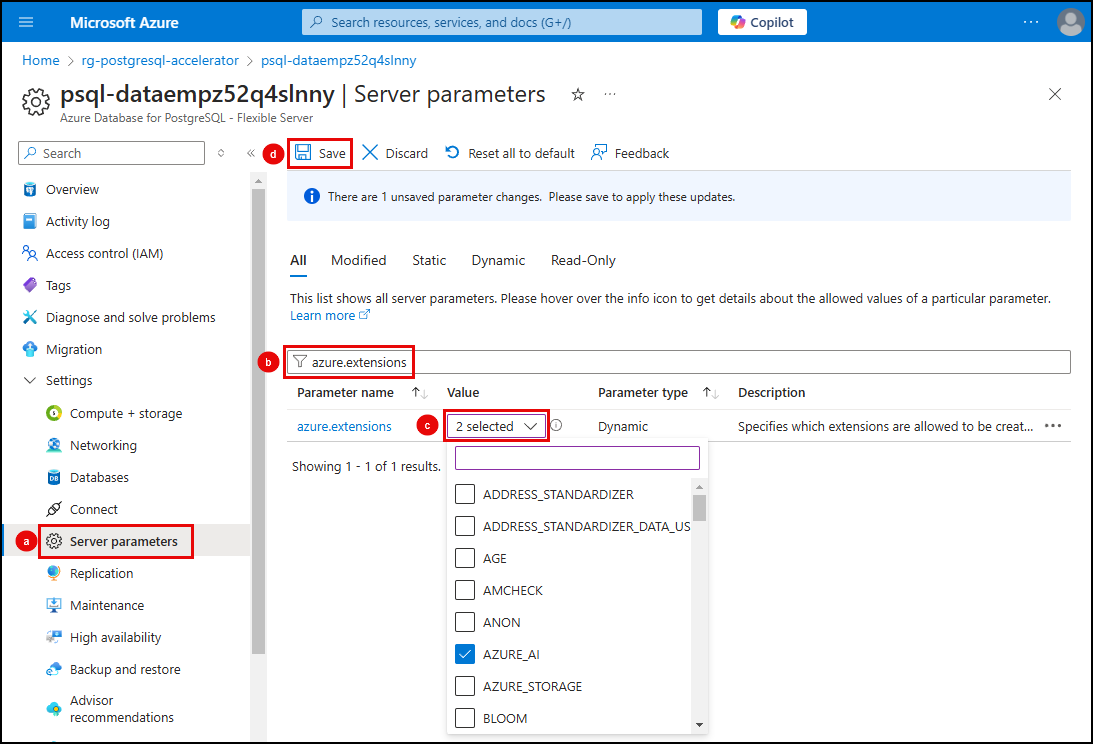
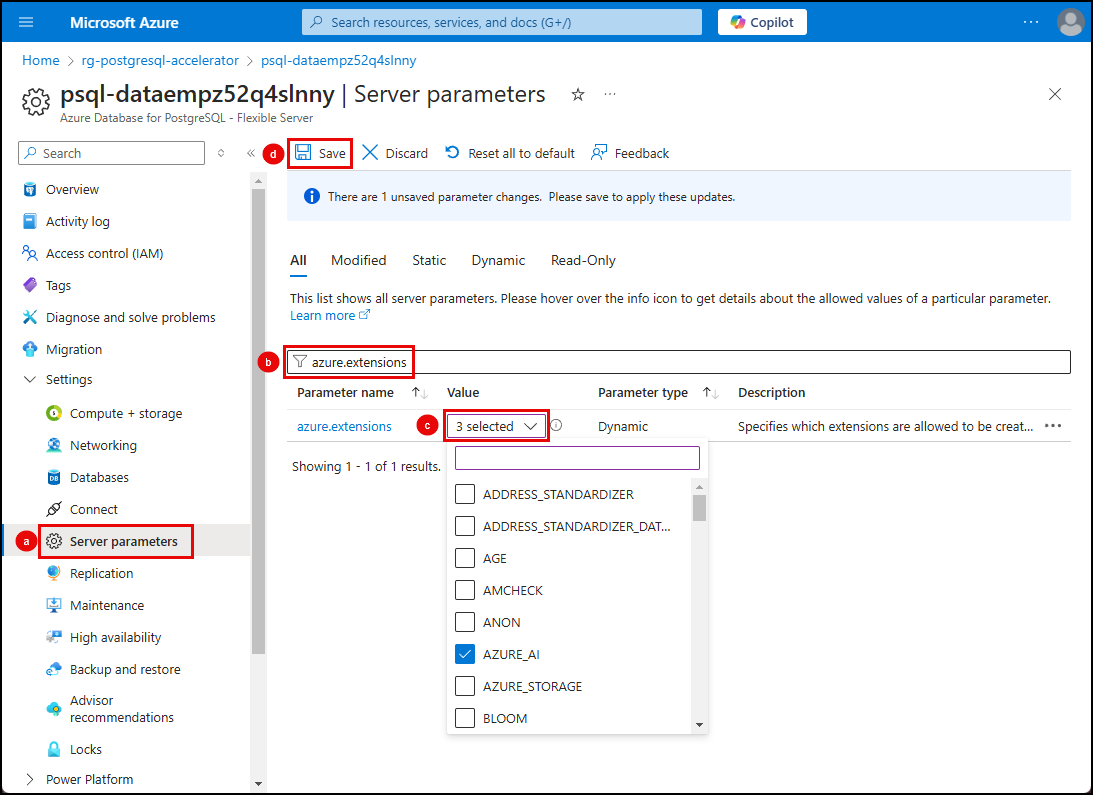
Switching to DiskANN indexing

Changed region(s): [[0.0, 0.0, 1.0, 1.0], [0.2177, 0.3091, 0.9643, 0.9274], [0.2177, 0.8038, 0.2489, 0.8965]]

diff --git a/docs/workshop/docs/03-Integrate-AI-Into-PostgreSQL/04.md b/docs/workshop/docs/03-Integrate-AI-Into-PostgreSQL/04.md
@@ -1,6 +1,6 @@
 # 3.4 Optimize Vector Query Performance
 
-The `vector` extension adds vector storage and similarity search capabilities to Azure Database for PostgreSQL flexible server. Indexing can help improve the performance of vector queries against the database. Without indexes, the `vector` extension performs an exact search, which provides perfect recall at the expense of performance. To perform approximate nearest neighbor searches, you can create indexes on your data, which sacrifices recall for execution performance.
+The `vector` extension adds vector storage and similarity search capabilities to Azure Database for PostgreSQL flexible server. To improve efficiency when executing vector searches, you can use the `pg_diskann` extension, which allows you to leverage DiskANN to create indexes on tables containing a _vector_ column. Indexing can help improve the performance of vector queries against the database. Without indexes, the `vector` extension performs an exact search, which provides perfect recall at the expense of performance. To perform approximate nearest neighbor searches, you can [create DiskANN indexes](https://learn.microsoft.com/azure/postgresql/flexible-server/how-to-use-pgdiskann) on your data, which offers high recall, high queries per second, and low query latency, even for billion-point datasets.
 
 !!! tip "Always load your data before indexing it."
 
@@ -10,9 +10,9 @@ The `vector` extension adds vector storage and similarity search capabilities to
 
 There are three supported vector index types, each with its own pros and cons. You can learn more about the index types using these links:
 
+- [Disk Approximate Nearest Neighbor](https://learn.microsoft.com/azure/postgresql/flexible-server/how-to-optimize-performance-pgvector#disk-approximate-nearest-neighbor-diskann) (DiskANN)
 - [Inverted File with Flat Compression](https://learn.microsoft.com/azure/postgresql/flexible-server/how-to-optimize-performance-pgvector#inverted-file-with-flat-compression-ivvflat) (IVVFlat)
 - [Hierarchical Navigable Small Worlds](https://learn.microsoft.com/azure/postgresql/flexible-server/how-to-optimize-performance-pgvector#hierarchical-navigable-small-worlds-hnsw) (HNSW)
-- [Disk Approximate Nearest Neighbor](https://learn.microsoft.com/azure/postgresql/flexible-server/how-to-optimize-performance-pgvector#disk-approximate-nearest-neighbor-diskann) (DiskANN)
 
 The `IVFFlat` index has faster build times and uses less memory than `HNSW`, but it has lower query performance (in terms of the speed-recall tradeoff). `DiskANN` offers a great balance between highly accurate query performance and fast build times.
 
@@ -42,16 +42,17 @@ WHERE embedding <=> '[-0.031766646,-0.033289704,...,0.016508864,0.031440277]' < 
 
 ## Create Vector Indexes
 
-In the previous tasks, you added `vector` columns to several tables in your database and populated them with embeddings using the `azure_ai` extension and Azure OpenAI. To ensure queries over those embeddings are efficient, you will add `hnsw` indexes to each table to which you added a `vector` column.
+In the previous tasks, you added `vector` columns to several tables in your database and populated them with embeddings using the `azure_ai` extension and Azure OpenAI. To ensure queries over those embeddings are efficient, you will add `diskann` indexes to each table to which you added a `vector` column.
 
-_Select the tab for each table below and execute the `CREATE INDEX` statement to create an `hnsw` index._
+_Select the tab for each table below and execute the `CREATE INDEX` statement to create an `diskann` index._
 
 === "deliverables"
 
     Copy and paste the following SQL statement into a new query window in pgAdmin, then execute the query to add the index.
 
     ```sql
-    CREATE INDEX deliverables_hnsw_idx ON deliverables USING hnsw (embedding vector_cosine_ops);
+    -- Create a diskann index by using Cosine distance operator
+    CREATE INDEX deliverables_diskann_idx ON deliverables USING diskann (embedding vector_cosine_ops);
     ```
 
 === "invoice_line_items"
@@ -59,7 +60,8 @@ _Select the tab for each table below and execute the `CREATE INDEX` statement to
     Copy and paste the following SQL statement into a new query window in pgAdmin, then execute the query to add the index.
 
     ```sql
-    CREATE INDEX line_items_hnsw_idx ON invoice_line_items USING hnsw (embedding vector_cosine_ops);
+    -- Create a diskann index by using Cosine distance operator
+    CREATE INDEX line_items_diskann_idx ON invoice_line_items USING diskann (embedding vector_cosine_ops);
     ```
 
 === "invoice_validation_results"
@@ -67,7 +69,8 @@ _Select the tab for each table below and execute the `CREATE INDEX` statement to
     Copy and paste the following SQL statement into a new query window in pgAdmin, then execute the query to add the index.
 
     ```sql
-    CREATE INDEX invoice_validation_results_hnsw_idx ON invoice_validation_results USING hnsw (embedding vector_cosine_ops);
+    -- Create a diskann index by using Cosine distance operator
+    CREATE INDEX invoice_validation_results_diskann_idx ON invoice_validation_results USING diskann (embedding vector_cosine_ops);
     ```
 
 === "sow_chunks"
@@ -75,7 +78,8 @@ _Select the tab for each table below and execute the `CREATE INDEX` statement to
     Copy and paste the following SQL statement into a new query window in pgAdmin, then execute the query to add the index.
     
     ```sql
-    CREATE INDEX sow_chunks_hnsw_idx ON sow_chunks USING hnsw (embedding vector_cosine_ops);
+    -- Create a diskann index by using Cosine distance operator
+    CREATE INDEX sow_chunks_diskann_idx ON sow_chunks USING diskann (embedding vector_cosine_ops);
     ```
 
 === "sow_validation_results"
@@ -83,7 +87,8 @@ _Select the tab for each table below and execute the `CREATE INDEX` statement to
     Copy and paste the following SQL statement into a new query window in pgAdmin, then execute the query to add the index.
 
     ```sql
-    CREATE INDEX sow_validation_results_hnsw_idx ON sow_validation_results USING hnsw (embedding vector_cosine_ops);
+    -- Create a diskann index by using Cosine distance operator
+    CREATE INDEX sow_validation_results_diskann_idx ON sow_validation_results USING diskann (embedding vector_cosine_ops);
     ```
 
-Be sure to run all the `CREATE INDEX` statements for each of the tables.
+!!! danger "Be sure to run the `CREATE INDEX` statements for each of the tables before moving on to the next step."

diff --git a/docs/workshop/docs/03-Integrate-AI-Into-PostgreSQL/index.md b/docs/workshop/docs/03-Integrate-AI-Into-PostgreSQL/index.md
@@ -2,11 +2,13 @@
 
 Generative AI (GenAI) represents a cutting-edge class of AI algorithms designed to create new, original content based on patterns and data learned from existing information. Natural language processing (NLP) is a key part of this. NLP allows generative AI to understand and produce human language, making it capable of tasks like summarizing large blocks of text, translating languages, or conversing with people. Using NLP, generative AI can create content that sounds natural and makes sense in context. By employing techniques like prompting and retrieval augmented generation (RAG), GenAI can produce innovative outputs, such as text, images, and more.
 
-Incorporating Generative AI (GenAI) within Azure Database for PostgreSQL - Flexible Server is accomplished through the Azure AI (`azure_ai`) and pgvector (`vector`) extensions. The `azure_ai` extension enables the integration of large language models (LLMs) directly within your database. The `azure_ai` extension provides seamless interaction with Azure's advanced AI services, such as Azure OpenAI and Azure Cognitive Services. With these integrations, you can elevate your applications by embedding robust AI functionalities directly into your database infrastructure. The `vector` extension works with the `azure_ai` extension, allowing vector embeddings to be generated in database queries, then stored and queried in the database. It also enables powerful vector similarity search capabilities.
+Incorporating Generative AI (GenAI) within Azure Database for PostgreSQL - Flexible Server is accomplished through the Azure AI (`azure_ai`) and pgvector (`vector`) extensions. The `azure_ai` extension enables the integration of large language models (LLMs) directly within your database, providing seamless interaction with Azure's advanced AI services, such as Azure OpenAI and Azure Cognitive Services. With these integrations, you can elevate your applications by embedding robust AI functionalities directly into your database infrastructure. The `vector` extension works with the `azure_ai` extension, allowing vector embeddings to be generated in database queries, then stored and queried in the database. It also enables powerful vector similarity search capabilities.
+
+In addition, the `pg_diskann` extension enables DiskANN support for efficient vector indexing and searching. DiskANN is a scalable approximate nearest neighbor search algorithm for efficient vector search at any scale. It offers high recall, high queries per second, and low query latency, even for billion-point datasets.
 
 In this section, you will use extensions to enhance your PostgreSQL database with Generative AI and Vector Search capabilities. Here's what you will accomplish:
 
-- [ ] Install the `azure_ai` and `vector` extensions on your PostgreSQL database
+- [ ] Install the `azure_ai`, `pg_diskann`, and `vector` extensions on your PostgreSQL database
 - [ ] Configure the `azure_ai` extension with the connection details for your Azure AI services
 - [ ] Add vector columns to database tables to allow embeddings to be stored alongside text data
 - [ ] Improve vector query performance with DiskANN

diff --git a/docs/workshop/docs/03-Integrate-AI-Into-PostgreSQL/01.md b/docs/workshop/docs/03-Integrate-AI-Into-PostgreSQL/01.md
@@ -19,7 +19,7 @@ Before installing and using extensions in Azure Database for PostgreSQL flexible
         - **[YOUR_SUBSCRIPTION_ID]**: Your Azure subscription ID.
     
     ```bash
-    az postgres flexible-server parameter set --resource-group [YOUR_RESOURCE_GROUP]  --server-name [YOUR_POSTGRESQL_SERVER] --subscription [YOUR_SUBSCRIPTION_ID] --name azure.extensions --value azure_ai,vector
+    az postgres flexible-server parameter set --resource-group [YOUR_RESOURCE_GROUP]  --server-name [YOUR_POSTGRESQL_SERVER] --subscription [YOUR_SUBSCRIPTION_ID] --name azure.extensions --value azure_ai,pg_diskann,vector
     ```
 
 === "Azure portal"
@@ -29,10 +29,10 @@ Before installing and using extensions in Azure Database for PostgreSQL flexible
     2. From the left-hand resource menu:
         1. Expand the **Settings** section and select **Server parameters**.
         2. Enter "azure.extensions" into the search filter.
-        3. Select the **AZURE_AI** and **VECTOR** extensions by checking the box for each in the **VALUE** dropdown list.
+        3. Select the **AZURE_AI**, **PG_DISKANN**, and **VECTOR** extensions by checking the box for each in the **VALUE** dropdown list.
         4. Select **Save** on the toolbar.
 
-        ![Screenshot of the steps to allow the AZURE_AI and VECTOR extension in the Azure portal.](../img/allow-extensions.png)
+        ![Screenshot of the steps to allow the AZURE_AI, PG_DISKANN, and VECTOR extension in the Azure portal.](../img/allow-extensions.png)
 
 ## Install extensions
 
@@ -69,3 +69,17 @@ You will use **pgAdmin** to install the extensions by executing SQL commands aga
         ```sql
         CREATE EXTENSION IF NOT EXISTS vector;
         ```
+
+=== "DiskANN extension"
+
+    The **DiskANN** (`pg_diskann`) extension adds support for using DiskANN for efficient vector indexing and searching. Once the extension is installed, you can create `diskann` indexes on table columns that contain vector data.
+
+    1. Create the `pg_diskann` extension:
+
+        ```sql
+        CREATE EXTENSION IF NOT EXISTS pg_diskann;
+        ```
+
+    !!! tip "The DiskANN extension is dependent on the pgvector extension."
+
+        Because `pg_diskann` has a dependency on the `vector` extension, you must first allow and create the `vector` extension in the same database. Alternatively, you can use the `CASCADE` clause in the above query, which will cause PostgreSQL to implicitely run `CREATE EXTENSION` on the extension's dependencies.
